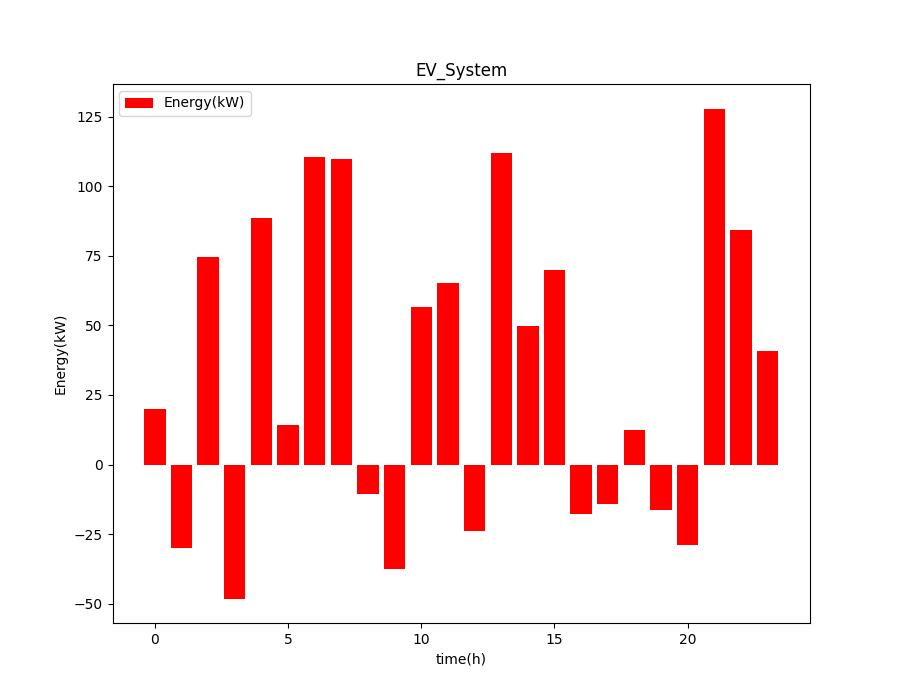
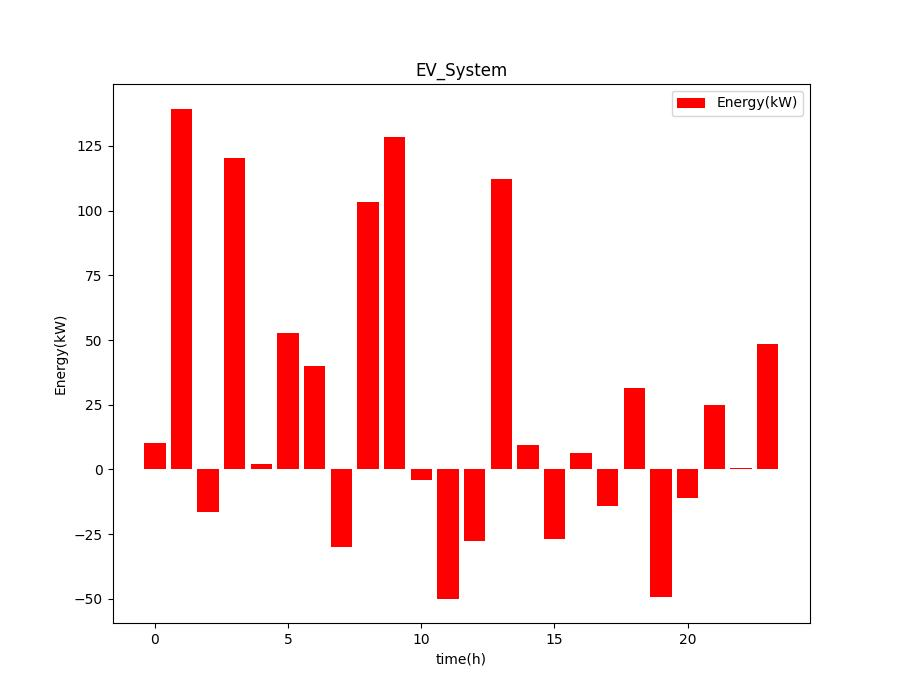
MySQL分支

diff --git a/APIs/genetic_alg.py b/APIs/genetic_alg.py
@@ -1,8 +1,10 @@
+import os
 import sqlite3
 import time
 import numpy as np
 import pandas as pd
 import matplotlib as plt
+import mysql.connector
 
 raletive_paths = "APIs\\"
 
@@ -109,11 +111,13 @@ class EMS_data:
         return 0
 
     def data_init(self):
-        # print(self.path + "GA_data\\load.txt")
-        self.Load = pd.read_csv(self.path + "GA_data\\load.txt", delimiter="\t", header=None)  # Load是负荷
-        self.PV = pd.read_csv(self.path + "GA_data\\PV.txt", delimiter="\t", header=None)  # PV是光伏发电
-        self.WT = pd.read_csv(self.path + "GA_data\\WT.txt", delimiter="\t", header=None)  # WT是风力发电
-        self.price = pd.read_csv(self.path + "GA_data\\电价.txt", delimiter="\t", header=None)  # price就是电价
+        if(os.path.basename(os.getcwd()) == "APIs"):
+            self.path =  ""
+        print(self.path + "GA_data/load.txt")
+        self.Load = pd.read_csv(self.path + "GA_data/load.txt", delimiter="\t", header=None)  # Load是负荷
+        self.PV = pd.read_csv(self.path + "GA_data/PV.txt", delimiter="\t", header=None)  # PV是光伏发电
+        self.WT = pd.read_csv(self.path + "GA_data/WT.txt", delimiter="\t", header=None)  # WT是风力发电
+        self.price = pd.read_csv(self.path + "GA_data/电价.txt", delimiter="\t", header=None)  # price就是电价
         self.grid_P = pd.Series([0.0] * 24)  # 24小时电网交互功率
         self.grid_C = pd.Series([0.0] * 24)  # 电网交互费用
         self.bat_E = pd.Series([0.0] * 24)  # 蓄电池电量
@@ -153,7 +157,7 @@ def GA_run_func(path=None):
     print("data processing...")
     cross_rate = 0.8
     mutation_rate = 0.001
-    MAXGEN = 75
+    MAXGEN = 20
     pop_size = 100
     chromosome_size = 48 * 14  # 10位整数位 4位小数位
     population = EMS_data(pop_size, chromosome_size, path)
@@ -181,19 +185,31 @@ def GA_run_func(path=None):
             database_input(final, "BatteryChange")
             database_input(x_array, "x_values")
             return final
-        time.sleep(1)
+        time.sleep(0.1)
 
-
-def database_input(arr: np.ndarray, str):
+def database_input(arr: np.ndarray, column_name: str):
+    print (arr)
     print("data processing...")
-    conn = sqlite3.connect('data/data_db.db')
+    conn = mysql.connector.connect(
+        host='112.124.43.86',
+        user='EMS',
+        passwd='282432',
+        database='ems'
+    )
     c = conn.cursor()
-    c.execute("PRAGMA table_info(dataTable)")
-    columns = [column[1] for column in c.fetchall()]
-    if str not in columns:
-        c.execute(f"ALTER TABLE dataTable ADD COLUMN {str} REAL")
+
+    # Get the column names from the EMS_Data table
+    c.execute("SELECT COLUMN_NAME FROM INFORMATION_SCHEMA.COLUMNS WHERE TABLE_NAME = 'EMS_Data'")
+    columns = [column[0] for column in c.fetchall()]
+
+    # Add the new column if it does not exist
+    if column_name not in columns:
+        c.execute(f"ALTER TABLE EMS_Data ADD COLUMN {column_name} REAL")
+
+    # Update the table with the new data
     for i, value in enumerate(arr):
-        c.execute(f"UPDATE dataTable SET {str} = {value} WHERE rowid = {i + 1}")
+        c.execute(f"UPDATE EMS_Data SET {column_name} = {value} WHERE time = {i + 1}")
+
     conn.commit()
     conn.close()
     print("储能数据发送到数据库！")

diff --git a/data/data_input.py b/data/data_input.py
@@ -1,29 +1,27 @@
 import pandas as pd
-import sqlite3
+from sqlalchemy import create_engine
 
-# 请不要再执行这段代码了，database都被覆盖了
-# 此文件留下来是为了防止有新的数据需要使用，制作成csv文件，然后运行改程序即可导入数据库
 def update_data():
     return
-    # 读取 Excel 文件到 DataFrame
-    df = pd.read_csv('测试数据.csv')
+    # 读取 CSV 文件到 DataFrame
+    df = pd.read_csv('test.csv')
 
-    # 连接到 SQLite 数据库
-    conn = sqlite3.connect('data_db.db')
+    # 连接到 MySQL 数据库
+    engine = create_engine('mysql+mysqlconnector://EMS:282432@112.124.43.86/ems')
 
-    # 将 DataFrame 中的数据写入 SQLite 数据库
-    table_name = 'dataTable'
-    df.to_sql(table_name, conn, if_exists='replace', index=False)
-
-    # 关闭数据库连接
-    conn.close()
+    # 将 DataFrame 中的数据写入 MySQL 数据库
+    table_name = 'EMS_Data'
+    df.to_sql(table_name, engine, if_exists='replace', index=False)
 
     # 输出成功消息
-    print("Data has been written to SQLite database.")
+    print("Data has been written to MySQL database.")
 
-    # 测试用
-    # conn = sqlite3.connect("data_db.db")
-    # query = "SELECT * FROM dataTable"
-    # df = pd.read_sql_query(query,conn)
-    # conn.close()
-    # print(df)
+def test():
+    engine = create_engine('mysql+mysqlconnector://EMS:282432@112.124.43.86/ems')
+
+    query = "SELECT * FROM EMS_Data"
+    df = pd.read_sql(query,engine)
+
+    print(df)
+
+test()

diff --git a/APIs/FigureDraw.py b/APIs/FigureDraw.py
@@ -4,6 +4,8 @@ import pandas as pd
 from matplotlib import pyplot as plt
 import sqlite3
 
+from sqlalchemy import create_engine
+
 
 # fzz吐槽：从设计模式上来讲这里最规范的写法应该是每多一种绘图格式or风格就新建一个子类继承自FigureDraw基类；但是fzz太懒了
 # 于是这里每多一个绘图格式就需要同时建立两个函数，一个作为plot_func用于设计绘图格式，一个用作api接口
@@ -17,8 +19,7 @@ class FigureDraw:
     """
 
     def __init__(self, db_path="data/data_db.db"):
-        self.db_path = db_path
-
+            self.db = db_path
     def __fetch_and_prepare_data(self, col_name, data_range, isNormalized):
         """
         从数据库中获取指定列的数据，并根据范围进行切片和归一化处理。
@@ -32,9 +33,9 @@ class FigureDraw:
         - 处理后的 pandas.Series 对象。
         """
         # 连接数据库
-        conn = sqlite3.connect(self.db_path)
+        conn = create_engine('mysql+mysqlconnector://EMS:282432@112.124.43.86/ems')
         # 查询数据
-        query = f"SELECT {col_name} FROM dataTable"
+        query = f"SELECT {col_name} FROM EMS_Data"
         df = pd.read_sql_query(query, conn)[col_name]
         # 设定数据范围
         df = df[data_range[0]:data_range[1]]

diff --git a/ChildPages/main_page.py b/ChildPages/main_page.py
@@ -7,6 +7,8 @@ from PyQt5.QtCore import QDateTime
 import ctypes
 import sqlite3
 import pandas as pd
+from sqlalchemy import create_engine
+
 from APIs.fetch_weather_info import get_weather
 from .ChildPageBase import ChildPage
 
@@ -44,9 +46,10 @@ class MainPage(ChildPage):
         self.ui.Btn_5.clicked.connect(lambda: self.btnClicked("BatteryChange", "光伏"))
 
     def btnClicked(self, col_of_db="", title=""):
-        conn = sqlite3.connect("data/data_db.db")
-        query = "SELECT * FROM dataTable"
-        df = pd.read_sql_query(query, conn)
+        engine = create_engine('mysql+mysqlconnector://EMS:282432@112.124.43.86/ems')
+
+        query = "SELECT * FROM EMS_Data"
+        df = pd.read_sql(query, engine)
         df_col = df[col_of_db]
         text = title + "\n运行功率：%.2f" % (df_col[random.randint(0, 9)]) + " kWh"  # random只是为了看起来随机一点实际上没有任何作用
         self.ui.label_16.setText(text)

diff --git a/ChildPages/solar.py b/ChildPages/solar.py
@@ -2,12 +2,14 @@ import random
 from PyQt5.QtCore import *
 from PyQt5.QtWidgets import *
 from PyQt5.QtGui import *
-from PyQt5 import uic
+
 import time
 import pandas as pd
 import sqlite3
 import matplotlib.pyplot as plt
 import ctypes
+
+from sqlalchemy import create_engine
 
 from .ChildPageBase import ChildPage
 from APIs.FigureDraw import FigureDraw
@@ -31,9 +33,10 @@ class Solar_Ui(ChildPage):
 
     def update_label_data(self):
         # 从数据库里面读取数据，并且写入Label中
-        conn = sqlite3.connect("data/data_db.db")
-        query = "SELECT * FROM dataTable"
-        df = pd.read_sql_query(query, conn)
+        engine = create_engine('mysql+mysqlconnector://EMS:282432@112.124.43.86/ems')
+
+        query = "SELECT * FROM EMS_Data"
+        df = pd.read_sql(query, engine)
         data_column = df["time"]
         photokW = df["photokW"]
         self.ui.data5.setText(f"{photokW[int(time.time() * 10) % 60]}")

diff --git a/ChildPages/wind.py b/ChildPages/wind.py
@@ -1,12 +1,14 @@
 from PyQt5.QtCore import *
 from PyQt5.QtWidgets import *
 from PyQt5.QtGui import *
-from PyQt5 import uic
+
 import time
 import pandas as pd
 import sqlite3
 from matplotlib import pyplot as plt
 import ctypes
+
+from sqlalchemy import create_engine
 
 from .ChildPageBase import ChildPage
 from APIs.FigureDraw import FigureDraw
@@ -31,9 +33,10 @@ class Wind_Ui(ChildPage):
 
     def update_label_data(self):
         # 从数据库里面读取数据，并且写入Label中
-        conn = sqlite3.connect("data/data_db.db")
-        query = "SELECT * FROM dataTable"
-        df = pd.read_sql_query(query, conn)
+        engine = create_engine('mysql+mysqlconnector://EMS:282432@112.124.43.86/ems')
+
+        query = "SELECT * FROM EMS_Data"
+        df = pd.read_sql(query, engine)
         data_column = df["time"]
         windkW = df["windkW"]
         self.ui.data5.setText(f"{windkW[int(time.time() * 10) % 60]}")

diff --git a/ChildPages/EV_main.py b/ChildPages/EV_main.py
@@ -18,6 +18,7 @@ import pandas as pd
 import sqlite3
 import ctypes
 from matplotlib import pyplot as plt
+from sqlalchemy import create_engine
 
 from .ChildPageBase import ChildPage
 from APIs.FigureDraw import FigureDraw
@@ -38,9 +39,11 @@ class EV_Ui(ChildPage):
     def EV_data_update(self):
         """更新数据显示"""
         # 读取数据库对象，为df
-        conn = sqlite3.connect("data/data_db.db")
-        query = "SELECT * FROM dataTable"
-        df = pd.read_sql_query(query, conn)
+        engine = create_engine('mysql+mysqlconnector://EMS:282432@112.124.43.86/ems')
+
+        query = "SELECT * FROM EMS_Data"
+        df = pd.read_sql(query, engine)
+        df = pd.read_sql(query, engine)
         # 获取df的各列数据
         df_time = df["time"]
         windkW = df["windkW"]

diff --git a/ChildPages/load_main.py b/ChildPages/load_main.py
@@ -18,6 +18,8 @@ import sqlite3
 from matplotlib import pyplot as plt
 import ctypes
 
+from sqlalchemy import create_engine
+
 from .ChildPageBase import ChildPage
 from APIs.FigureDraw import FigureDraw
 
@@ -43,9 +45,10 @@ class Load_Ui(ChildPage):
     def update_label_data(self):
         """更新数据显示"""
         # 读取数据库对象，为df
-        conn = sqlite3.connect("data/data_db.db")
-        query = "SELECT * FROM dataTable"
-        df = pd.read_sql_query(query, conn)
+        engine = create_engine('mysql+mysqlconnector://EMS:282432@112.124.43.86/ems')
+
+        query = "SELECT * FROM EMS_Data"
+        df = pd.read_sql(query, engine)
 
         # 获取df的各列数据
         # df_time = df["time"]

diff --git a/APIs/fetch_weather_info.py b/APIs/fetch_weather_info.py
@@ -3,6 +3,7 @@ from lxml import etree
 
 
 def get_weather():
+    return "",""
     url = "https://www.tianqishi.com/shanghai.html"
     headers = {
         'User-Agent': 'Mozilla/5.0 (Windows NT 10.0; Win64; x64) AppleWebKit/537.36 (KHTML, like Gecko) Chrome/58.0.3029.110 Safari/537.3', }

diff --git a/mainui.py b/mainui.py
@@ -8,8 +8,7 @@ import threading
 from PyQt5.QtCore import *
 from PyQt5.QtWidgets import *
 from PyQt5.QtGui import *
-from PyQt5 import uic
-from PyQt5 import QtWidgets
+from PyQt5 import QtWidgets, uic
 from PyQt5 import pyrcc
 from functools import partial
 

diff --git a/README.md b/README.md
@@ -79,6 +79,26 @@ $grid_P$
 + 同时汽车每小时用电量在 $0\sim 50$ 之间
 + 同时蓄电池充(放)电量在 $-50\sim 50$ 之间
 
+
+## 3. 数据库
+数据库部署在阿里云的服务器上，一般不会关闭  
+数据库现在使用MySQL  
+### 3.1 数据库信息:
++ IP: 112.124.43.86
++ 端口: 3306
++ 用户: EMS
++ 数据库名称: ems
++ 数据库所用的表: EMS_Data
+
+### 3.2 常用语句:
+连接数据库:`engine = create_engine('mysql+mysqlconnector://EMS:282432@112.124.43.86/ems')`  
+数据库信息写入DataFrame: 
+```
+    query = "SELECT * FROM EMS_Data"
+    df = pd.read_sql(query,engine)
+```
+
+
 # 二、项目日志
 
 ### 2024.3.29，版本0.7.6
@@ -148,3 +168,11 @@ $grid_P$
     - 由于相对路径设置麻烦，所以考虑是否需要公用main.py的路径，子页面不再单独设置路径；子页面的调试通过启动main.py来执行
     -
     将主页面的按钮更改为不规则形状碰撞体积，见[QT不规则形状的按钮的实现](https://blog.csdn.net/thanklife/article/details/122215309)
+
+### 2024.10.9版本0.9.1 - Cloud分支
+1. 将数据库放到了云端，使用mysql数据库
+2. 上传了但是没有完全上传，登陆界面等过几天再搞
+3. 现在页面极其卡顿，后面需要限制一下读取数据库的频率
+4. 现在天气读取出现了bug，后面再修改
+5. 新建了gitignore文件，不要把奇怪的文件放进git里面去(，并且使用
+`git add .gitignore`替代以前习惯用的`git add .`
